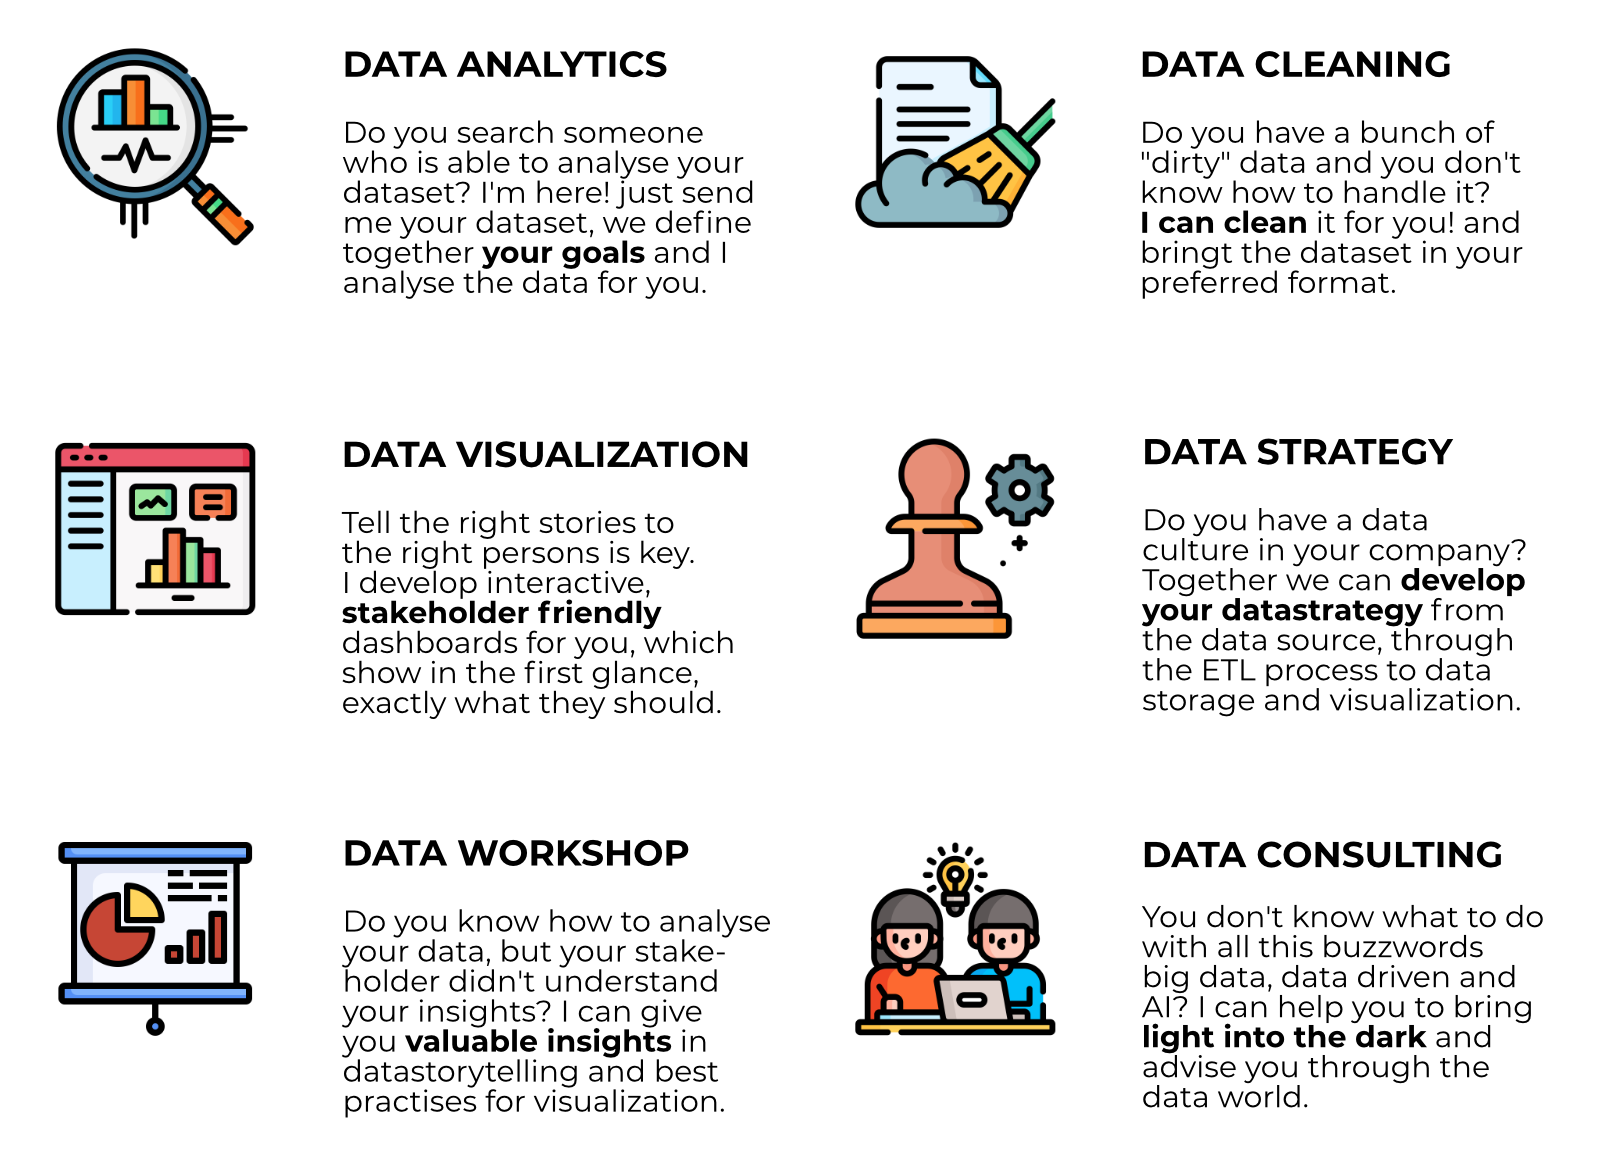
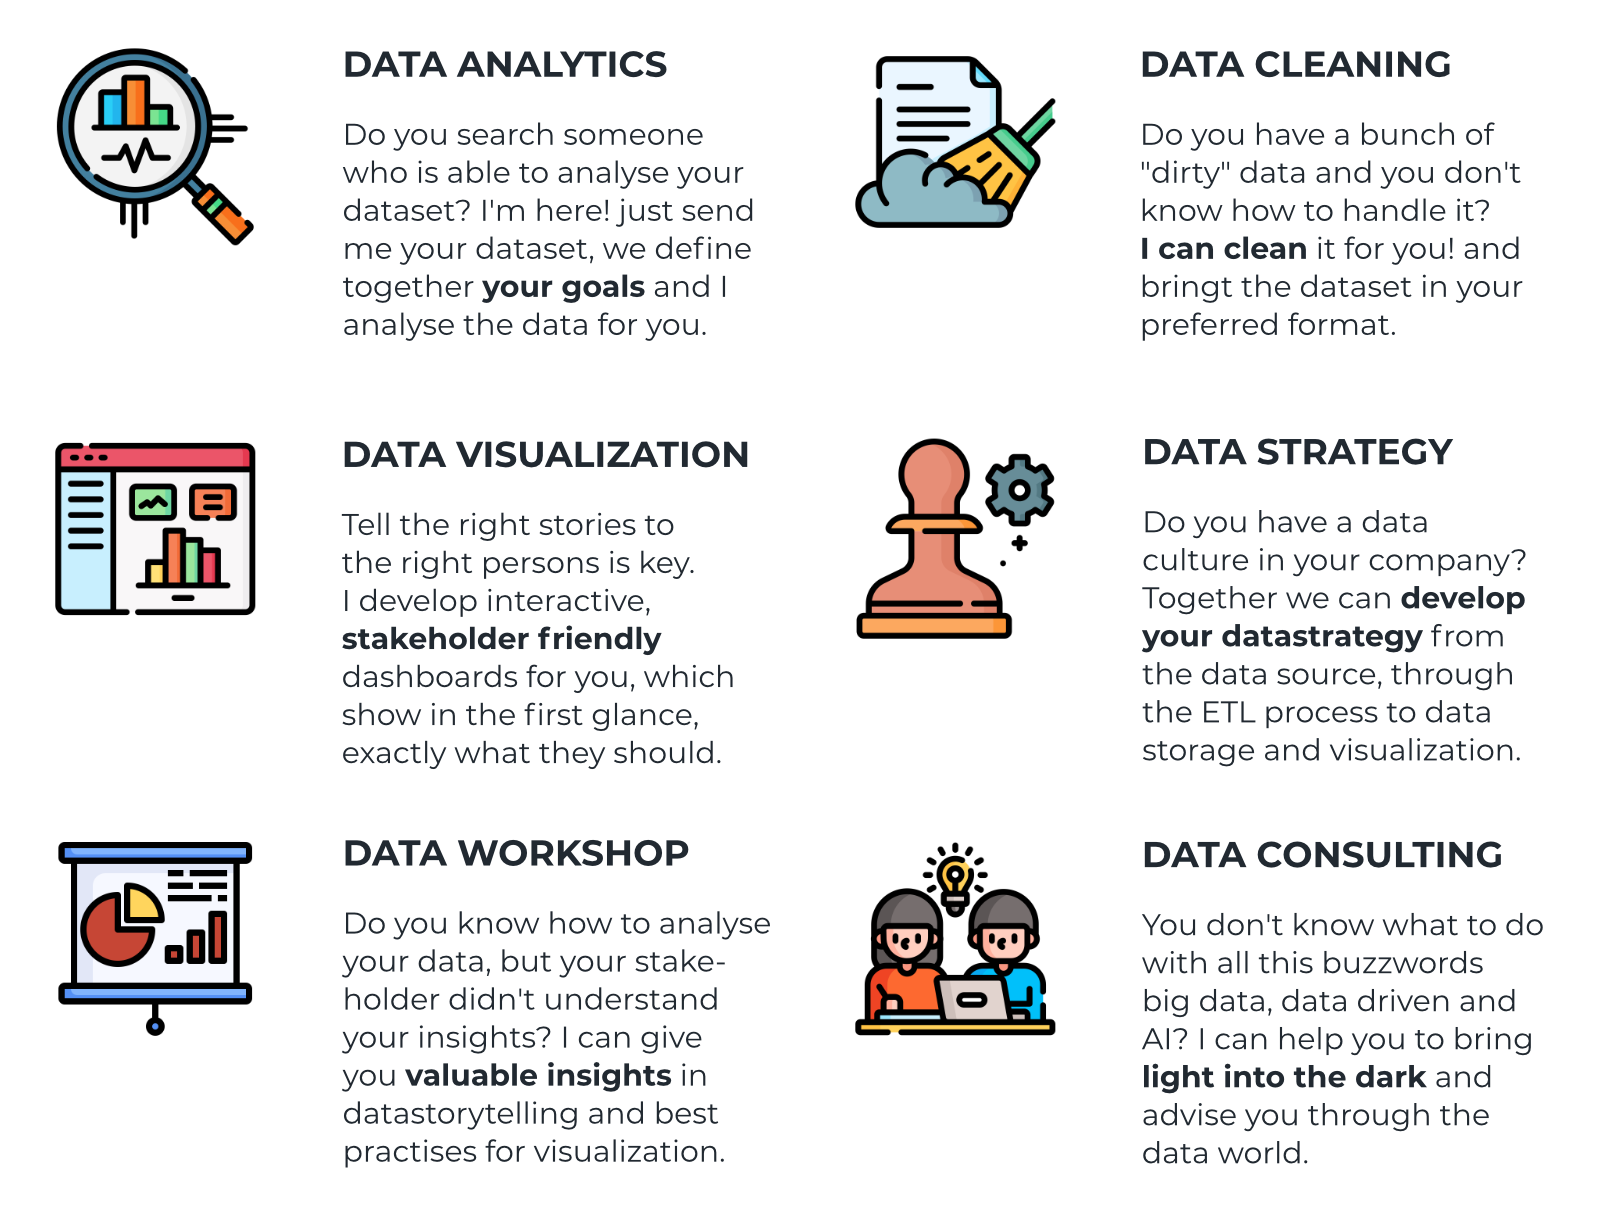
adjusted line high for services and about me

diff --git a/about.html b/about.html
@@ -56,7 +56,7 @@
 				<p>As a child I loved to solve puzzels and to <b>sort my legos by color</b>. Even today I have to <b>sort my M&M's by color</b> before I can eat them - you must decide for yourself how you interpret this habit.
 					<br/>
 					<br/>
-					I work remotely as a freelance data analyst. I have an background in business informatics and electronics and 
+					I have founded my company "Fischer Intelligence" in 2022 and I work remotely as a freelance data analyst. I have an background in business informatics and electronics and 
 					I'm experienced in many different business fields. I worked as a service technician, 
 					was a support manager later a digital marketing manager and in my actual company I work as business analytics manager. 
 					I'm responsible to develop the entire data strategy from scratch and building the technical infrastructure around it.

diff --git a/assets/css/main.css b/assets/css/main.css
@@ -142,10 +142,10 @@ input, select, textarea {
 	}
 
 	body, input, select, textarea {
-		font-family: Verdana, sans-serif;
+		font-family: Montserrat;
 		font-weight: 300;
 		font-size: 1rem;
-		line-height: 2.375;
+		line-height: 2;
 	}
 
 	a {
@@ -3228,7 +3228,7 @@ input, select, textarea {
 			width: 100%;
 			height: 100%;
 			background-color: #212931;
-			background-image: url("../../images/overlay.png"), linear-gradient(0deg, rgba(0, 0, 0, 0.1), rgba(0, 0, 0, 0.1)), url("../../images/bg.jpg");
+			background-image: url("../../images/overlay.png"), linear-gradient(0deg, rgba(0, 0, 0, 0.3), rgba(0, 0, 0, 0.6)), url("../../images/bg.jpg");
 			background-size: auto,								auto,														100% auto;
 			background-position: center,								center,														top center;
 			background-repeat: repeat,								no-repeat,													no-repeat;

diff --git a/index.html b/index.html
@@ -55,6 +55,7 @@
 								<h1><a>My Services</a></h1>
 								<p>As a freelance data analyst, I offer several services in the data world.</p>
 							</header>
+							<hr />
 
 					<!-- Posts -->
 						<section class="">
@@ -63,7 +64,7 @@
 									<br>
 									<h2><a href=""></a></h2>
 								</header>
-								<a class="image fit"><img src="images/service_visualisation.png" alt="" /></a>
+								<a class="image fit"><img src="images/service_visualisation.png" alt=""/></a>
 								</ul>
 							</article>
 							
